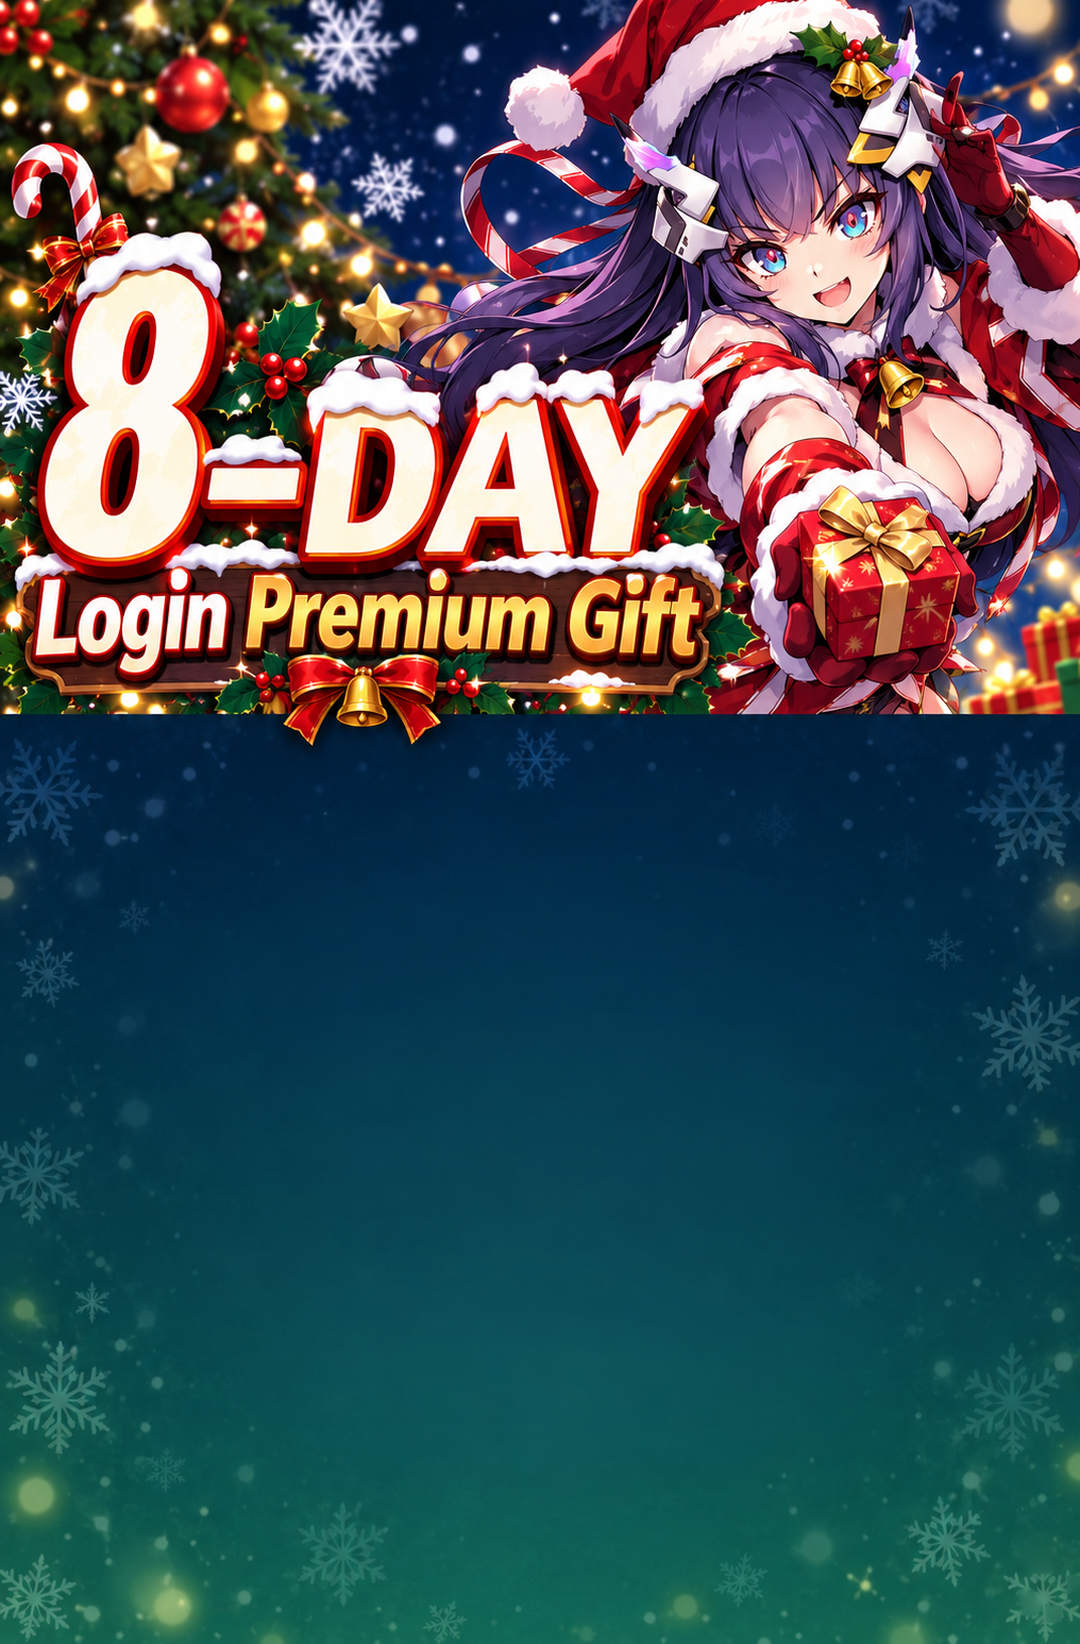
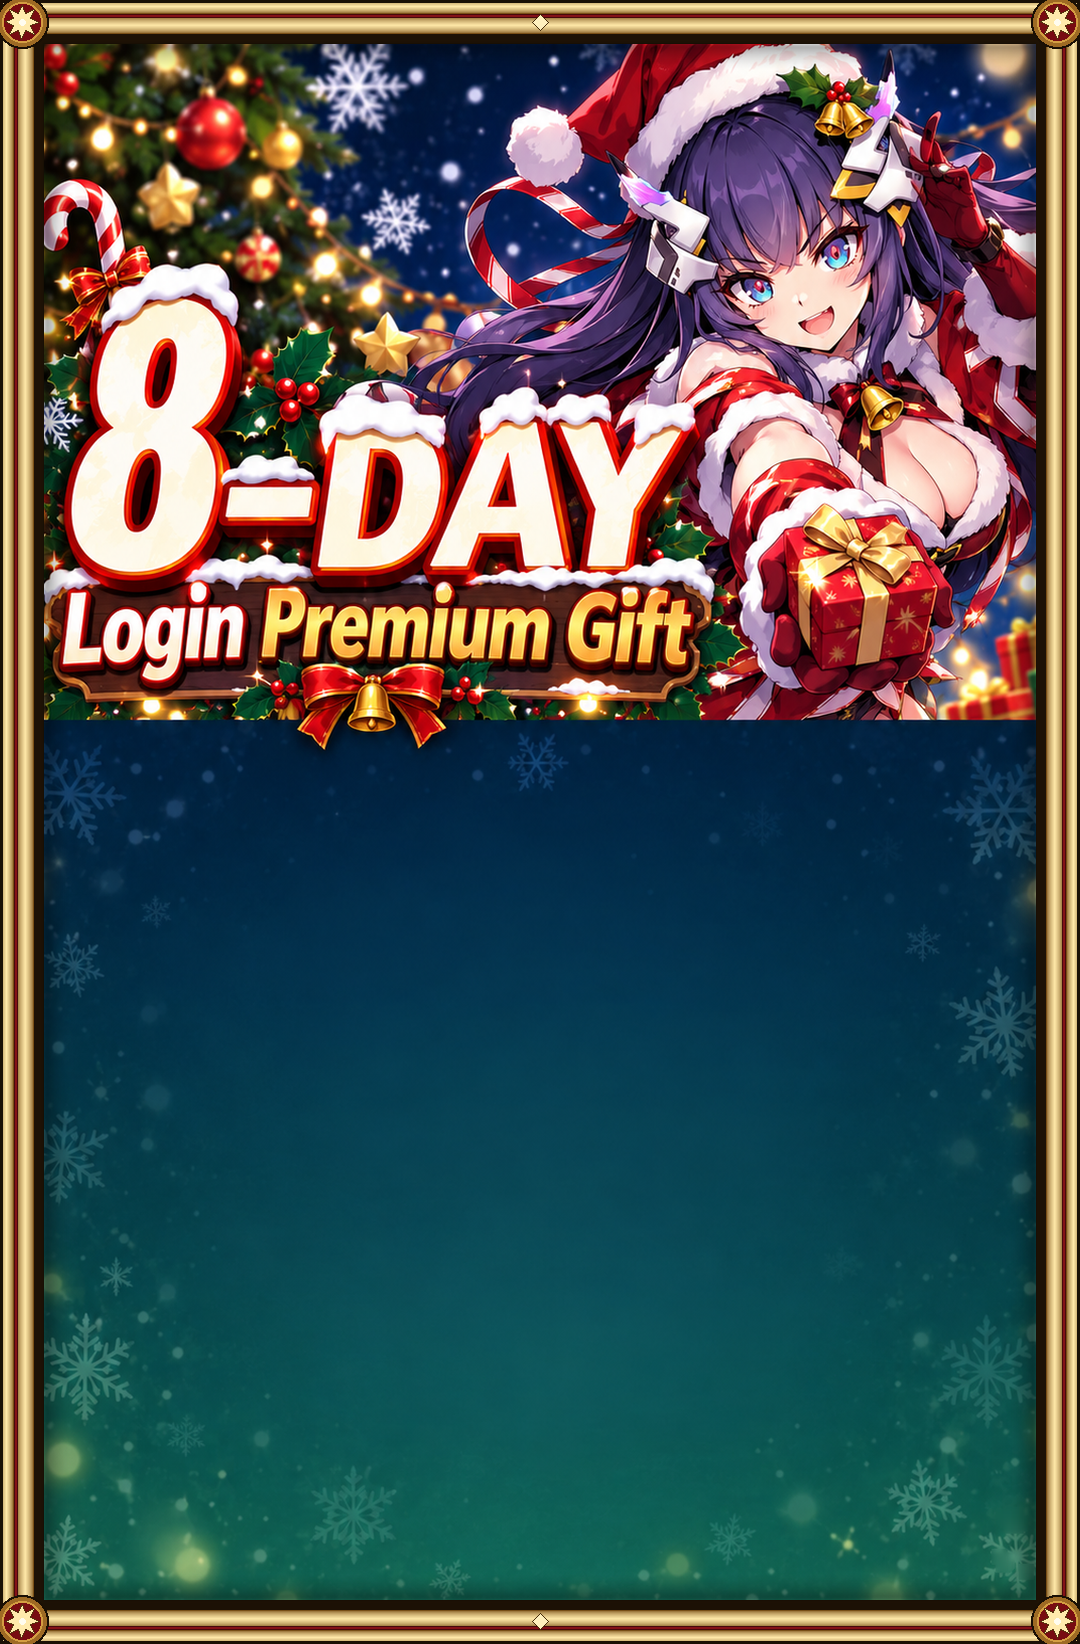
fix(art-pipeline): free 构图不再沿用源 alpha（会裁掉人脸）+ 红金画框装裱
- ALPHA_MODE=source|keep|free：source 只对 lock 成立；free 构图时自动降级 keep
  （源掩膜按老姿势抠，人物变高变宽后把左脸/头发/帽子整块切掉）
- verify 改口径：keep/free 只要求覆盖率不低于源 + 彩色高光没被压成透明
- FRAME=auto|gold|none|gold-overlay：free 默认套红金双层画框（暗金剖面 + 红嵌线 +
  内侧投影 + 四角徽章 + 长边菱形），框走 inset（画面等比缩进框内），不压贴边的字
- 登录底板重出：1080x1644 RGBA，alpha 1.0，人物完整，画框装裱

diff --git a/scripts/image/restyle_pipeline.py b/scripts/image/restyle_pipeline.py
@@ -36,6 +36,7 @@ from __future__ import annotations
 import argparse
 import hashlib
 import json
+import math
 import shutil
 import sys
 from datetime import datetime
@@ -45,7 +46,7 @@ ROOT = Path(__file__).resolve().parents[2]
 sys.path.insert(0, str(Path(__file__).resolve().parent))
 
 import numpy as np                                         # noqa: E402
-from PIL import Image                                      # noqa: E402
+from PIL import Image, ImageDraw, ImageFilter               # noqa: E402
 
 import watermark_clean                                     # noqa: E402
 
@@ -449,6 +450,93 @@ def fit_width(im: Image.Image, width: int) -> Image.Image:
     return im.resize((width, h), Image.LANCZOS)
 
 
+# --------------------------------------------------------------------- 边框（frame）
+GOLD_DARK = (120, 78, 22)
+GOLD_HI = (255, 232, 168)
+FRAME_RED = (150, 20, 28)
+
+
+def _metal_band(d, box, i0, i1, c0, c1, peak_at: float = 0.35) -> None:
+    """沿矩形框画一条「金属剖面」色带：越靠近 peak_at 越亮，模拟受光的高光。"""
+    w, h = box
+    for i in range(i0, i1):
+        t = (i - i0) / max(i1 - i0 - 1, 1)
+        prof = max(0.0, 1 - abs(t - peak_at) / max(peak_at, 1 - peak_at)) ** 0.6
+        c = tuple(int(c0[k] + (c1[k] - c0[k]) * prof) for k in range(3))
+        d.rectangle([i, i, w - 1 - i, h - 1 - i], outline=c, width=1)
+
+
+def _medallion(d, cx: float, cy: float, R: int) -> None:
+    """四角徽章：暗底 -> 金环 -> 红心 -> 八角星。"""
+    d.ellipse([cx - R - 2, cy - R - 2, cx + R + 2, cy + R + 2], fill=(26, 15, 4, 255))
+    d.ellipse([cx - R, cy - R, cx + R, cy + R], fill=(158, 106, 36, 255))
+    d.ellipse([cx - R + 4, cy - R + 4, cx + R - 4, cy + R - 4], fill=(212, 158, 66, 255))
+    d.ellipse([cx - R + 6, cy - R + 6, cx + R - 6, cy + R - 6], fill=(120, 12, 18, 255))
+    pts = []
+    for k in range(16):
+        ang = math.pi / 2 * (k / 4.0)
+        rad = (R - 7) if k % 2 == 0 else (R - 14) * 0.95
+        pts.append((cx + rad * math.cos(ang), cy - rad * math.sin(ang)))
+    d.polygon(pts, fill=(255, 234, 172, 255), outline=(84, 52, 14, 255))
+    d.ellipse([cx - 3, cy - 3, cx + 3, cy + 3], fill=(255, 252, 238, 255))
+
+
+def decorate_frame(img: Image.Image, ratio: float = 0.041, inset: bool = True) -> Image.Image:
+    """给整幅底板套一圈「红金双层」画框，压住自由构图后硬切的四边。
+
+    为什么需要它：free 构图的人像是整幅矩形的（模型不会给你抠好的透明轮廓），
+    如果没有边框，四边就是硬切、上半截跟下半截卡体的接缝也像没画完。
+    这一圈框把「硬切」变成「装裱」，边角还有徽章呼应。
+
+    🔴 inset=True（默认）：把画面**缩进框里**（等比 cover 到内框，最多裁掉 1~2%），
+       框压在画布边界上而不是压在画面上。overlay（inset=False）会直接盖住画面最外
+       一圈 44px —— 这张图的「8-DAY」左边缘和帽子顶部就贴在这个位置上，一盖就变成
+       「字被吃掉一角」，所以默认必须 inset。
+    🔴 画布尺寸不变（资源槽位固定），只在画布内侧做。
+    """
+    w, h = img.size
+    bw = max(20, int(round(w * ratio)))
+    bw = min(bw, w // 6, h // 6)
+
+    if inset:
+        inner = (w - 2 * bw, h - 2 * bw)
+        art = fit_cover(img.convert("RGB"), inner)
+        canvas = Image.new("RGBA", (w, h), (28, 17, 5, 255))
+        canvas.paste(art, (bw, bw))
+    else:
+        canvas = img.convert("RGBA")
+
+    out = Image.new("RGBA", (w, h), (0, 0, 0, 0))
+    d = ImageDraw.Draw(out)
+    d.rectangle([0, 0, w - 1, h - 1], outline=(26, 15, 4, 255), width=3)
+    _metal_band(d, (w, h), 3, max(4, int(bw * 0.32)), GOLD_DARK, GOLD_HI, peak_at=0.30)
+    _metal_band(d, (w, h), int(bw * 0.32), max(5, int(bw * 0.42)), (70, 8, 12), FRAME_RED, 0.5)
+    _metal_band(d, (w, h), int(bw * 0.42), int(bw * 0.78), GOLD_DARK, GOLD_HI, peak_at=0.45)
+    d.rectangle([bw - 4, bw - 4, w - 1 - bw + 3, h - 1 - bw + 3],
+                outline=(30, 18, 5, 255), width=3)
+    # 内侧投影：让画面「沉」进框里，不然相接处是死板的平贴
+    sh = Image.new("RGBA", (w, h), (0, 0, 0, 0))
+    ds = ImageDraw.Draw(sh)
+    span = max(12, int(bw * 0.6))
+    for i in range(span):
+        ds.rectangle([bw + i, bw + i, w - 1 - bw - i, h - 1 - bw - i],
+                     outline=(0, 0, 0, int(95 * (1 - i / span) ** 1.5)), width=1)
+    out = Image.alpha_composite(out, sh.filter(ImageFilter.GaussianBlur(2.0)))
+    # 四角徽章 + 长边中点菱形
+    d = ImageDraw.Draw(out)
+    m = bw // 2
+    R = max(10, int(bw * 0.55))
+    for cx, cy in [(m, m), (w - 1 - m, m), (m, h - 1 - m), (w - 1 - m, h - 1 - m)]:
+        _medallion(d, cx, cy, R)
+    r = max(4, int(bw * 0.20))
+    for cx, cy in [(w // 2, m), (w // 2, h - 1 - m)]:
+        d.polygon([(cx, cy - r), (cx + r, cy), (cx, cy + r), (cx - r, cy)],
+                  fill=(255, 240, 190, 255), outline=(70, 44, 10, 255))
+    canvas.alpha_composite(out)
+    return canvas.convert(img.mode if img.mode in ("RGB", "RGBA") else "RGBA")
+
+
+
 def cmd_postprocess(args) -> int:
     work = Path(args.work).expanduser().resolve()
     state = read_state(work)
@@ -522,13 +610,48 @@ def cmd_postprocess(args) -> int:
     out_dir = work / "out"
     opaque_path = out_dir / f"{base}_{suffix}_{target[0]}x{target[1]}.png"
     alpha_path = out_dir / f"{base}_{suffix}_{target[0]}x{target[1]}_alpha.png"
+
+    # 画框：free 构图的人像是整幅矩形，四边是硬切、上下半截的接缝也像没画完，
+    # 不套一圈框就是「贴图没处理干净」。lock 构图既有透明轮廓，框可有可无（默认 none）。
+    frame_mode = getattr(args, "frame", "none") or "none"
+    frame_ratio = float(getattr(args, "frame_ratio", 0.041) or 0.041)
+    inset = frame_mode != "gold-overlay"
+    if frame_mode in ("gold", "gold-overlay"):
+        flat = decorate_frame(flat, ratio=frame_ratio, inset=inset)
+        log("postprocess", f"套红金画框：框宽 {max(20, round(flat.width * frame_ratio))}px"
+                           f"（{'画面缩进框内' if inset else '压在画面上'}）")
+    elif frame_mode == "auto":
+        if state.get("composition") == "free":
+            flat = decorate_frame(flat, ratio=frame_ratio, inset=True)
+            log("postprocess", "套红金画框（auto：free 构图必套，画面缩进框内）")
+        else:
+            log("postprocess", "不套画框（auto：lock 构图保留原透明轮廓）")
     flat.save(opaque_path)
 
-    # 沿用源 alpha：游戏里这张是浮层（顶部只有文字/角色/装饰不透明），
-    # 换成不透明整幅会让 UI 背景被盖住，所以必须给一份轮廓一致的可替换件。
+    # alpha 三种取法，选错就是「人物被裁」这种硬伤：
+    #   source（默认）—— 沿用源 alpha。**只对 lock 构图成立**：轮廓没动，掩膜自然贴合。
+    #   keep  —— 整幅不透明。free 构图（人物重新摆姿势/改镜头）必须用这个：
+    #            源掩膜是按老姿势抠的，套到新人物上会把脸/头发整块切掉（2026-10-20 登录底板
+    #            就是这个症状：新人物头比原来高、比原来宽，源掩膜等于一把剪刀）。
+    #   free  —— 整幅不透明 + 顶边渐隐 N px（--feather-top），让上沿融进面板背景。
     src_alpha = Image.open(work / "src" / "source_alpha.png").convert("L").resize(target, Image.LANCZOS)
+    alpha_mode = getattr(args, "alpha_mode", "source") or "source"
+    if alpha_mode == "source" and state.get("composition") == "free":
+        log("postprocess", "🔴 free 构图却要用源 alpha —— 源掩膜按老姿势抠的，会把新人物裁掉；"
+                           "已自动改用 keep。要沿用源 alpha 请把 alpha-mode 显式写成 source")
+        alpha_mode = "keep"
+    if alpha_mode == "source":
+        alpha_img = src_alpha
+    else:
+        arr = np.full((target[1], target[0]), 255, dtype=np.uint8)
+        feather = max(0, int(getattr(args, "feather_top", 0) or 0))
+        if alpha_mode == "free" and feather:
+            f = min(feather, target[1])
+            ramp = np.clip(np.arange(f, dtype=np.float32) / max(f - 1, 1), 0.0, 1.0)
+            arr[:f, :] = (ramp[:, None] * 255).astype(np.uint8)
+        alpha_img = Image.fromarray(arr, "L")
     with_alpha = flat.convert("RGBA")
-    with_alpha.putalpha(src_alpha)
+    with_alpha.putalpha(alpha_img)
     with_alpha.save(alpha_path)
 
     compare_path = out_dir / "compare_before_after.jpg"
@@ -549,6 +672,8 @@ def cmd_postprocess(args) -> int:
         "fit_mode": "hero-band" if hb else "cover",
         "hero_band": hb,
         "body_mode": body_mode,
+        "alpha_mode": alpha_mode,
+        "frame": frame_mode,
         "watermark_mask_px": int(mask.sum()),
         "watermark_max_before": round(residue_before["max"], 2),
         "watermark_max_after": round(watermark_clean.residue_level(cleaned)["max"], 2),
@@ -603,6 +728,20 @@ def cmd_verify(args) -> int:
         if state["alpha_coverage"] > 0.999:
             # 整幅不透明的资源没有浮层可沿用，此时两个变体必然等价 —— 只提示不算缺陷
             check("alpha 覆盖率与源一致", True, "源为整幅不透明，无浮层可保留", hard=False)
+        elif state.get("alpha_mode", "source") != "source":
+            # free 构图换了轮廓，覆盖率必然比源高 —— 只要「不低于源」就说明没裁掉人物；
+            # 再用「生成图里的人物像素有没有被压成透明」做一次硬校验。
+            check("alpha 未裁掉新构图", coverage >= state["alpha_coverage"] - 0.002,
+                  f"{coverage:.4f} vs 源 {state['alpha_coverage']:.4f}（keep/free 模式只允许更不透明）")
+            gclean = work / "gen_clean.png"
+            if gclean.is_file():
+                g = np.array(Image.open(gclean).convert("RGB"))
+                a_small = np.array(Image.fromarray(alpha).resize(
+                    (g.shape[1], g.shape[0]), Image.BILINEAR))
+                bright = (g.max(axis=2) > 90) & (g.std(axis=2) > 18)   # 彩色高光=人物/文案
+                lost = float((bright & (a_small < 40)).sum()) / max(int(bright.sum()), 1)
+                check("人物/文案未被裁成透明", lost < 0.01,
+                      f"被裁掉的彩色像素 {100 * lost:.2f}%")
         else:
             check("alpha 覆盖率与源一致", abs(coverage - state["alpha_coverage"]) < 0.002,
                   f"{coverage:.4f} vs 源 {state['alpha_coverage']:.4f}")
@@ -950,6 +1089,17 @@ def main(argv: list[str] | None = None) -> int:
                         "synthetic=按主题色合成渐变（没有源快照时的兜底）；auto=能 source 就 source")
     p.add_argument("--blend", type=int, default=0,
                    help="接缝渐隐像素：把英雄带最后几行原位融进卡体（0=保持原图那种硬切，默认）")
+    p.add_argument("--alpha-mode", choices=["source", "keep", "free"], default="source",
+                   help="alpha 版怎么取：source=沿用源掩膜（只对 lock 构图成立，free 会被自动改成 keep）；"
+                        "keep=整幅不透明（free 构图默认语义）；free=整幅不透明 + 顶边渐隐")
+    p.add_argument("--feather-top", type=int, default=0,
+                   help="--alpha-mode free 时顶边渐隐像素（默认 0=不渐隐，避免糊掉贴顶的帽子/头发）")
+    p.add_argument("--frame", choices=["none", "auto", "gold", "gold-overlay"], default="none",
+                   help="画框：none=不画（默认）；auto=free 构图自动套红金框、lock 不套；"
+                        "gold=强制套红金框（画面等比缩进框内，不吃画面边缘）；"
+                        "gold-overlay=框直接压在画面最外一圈（会盖掉贴边的文字，慎用）")
+    p.add_argument("--frame-ratio", type=float, default=0.041,
+                   help="框宽 = 图宽 × 该比例（默认 0.041；1080 宽约 44px）")
     p.set_defaults(func=cmd_postprocess)
 
     p = sub.add_parser("verify", help="像素级验收")
